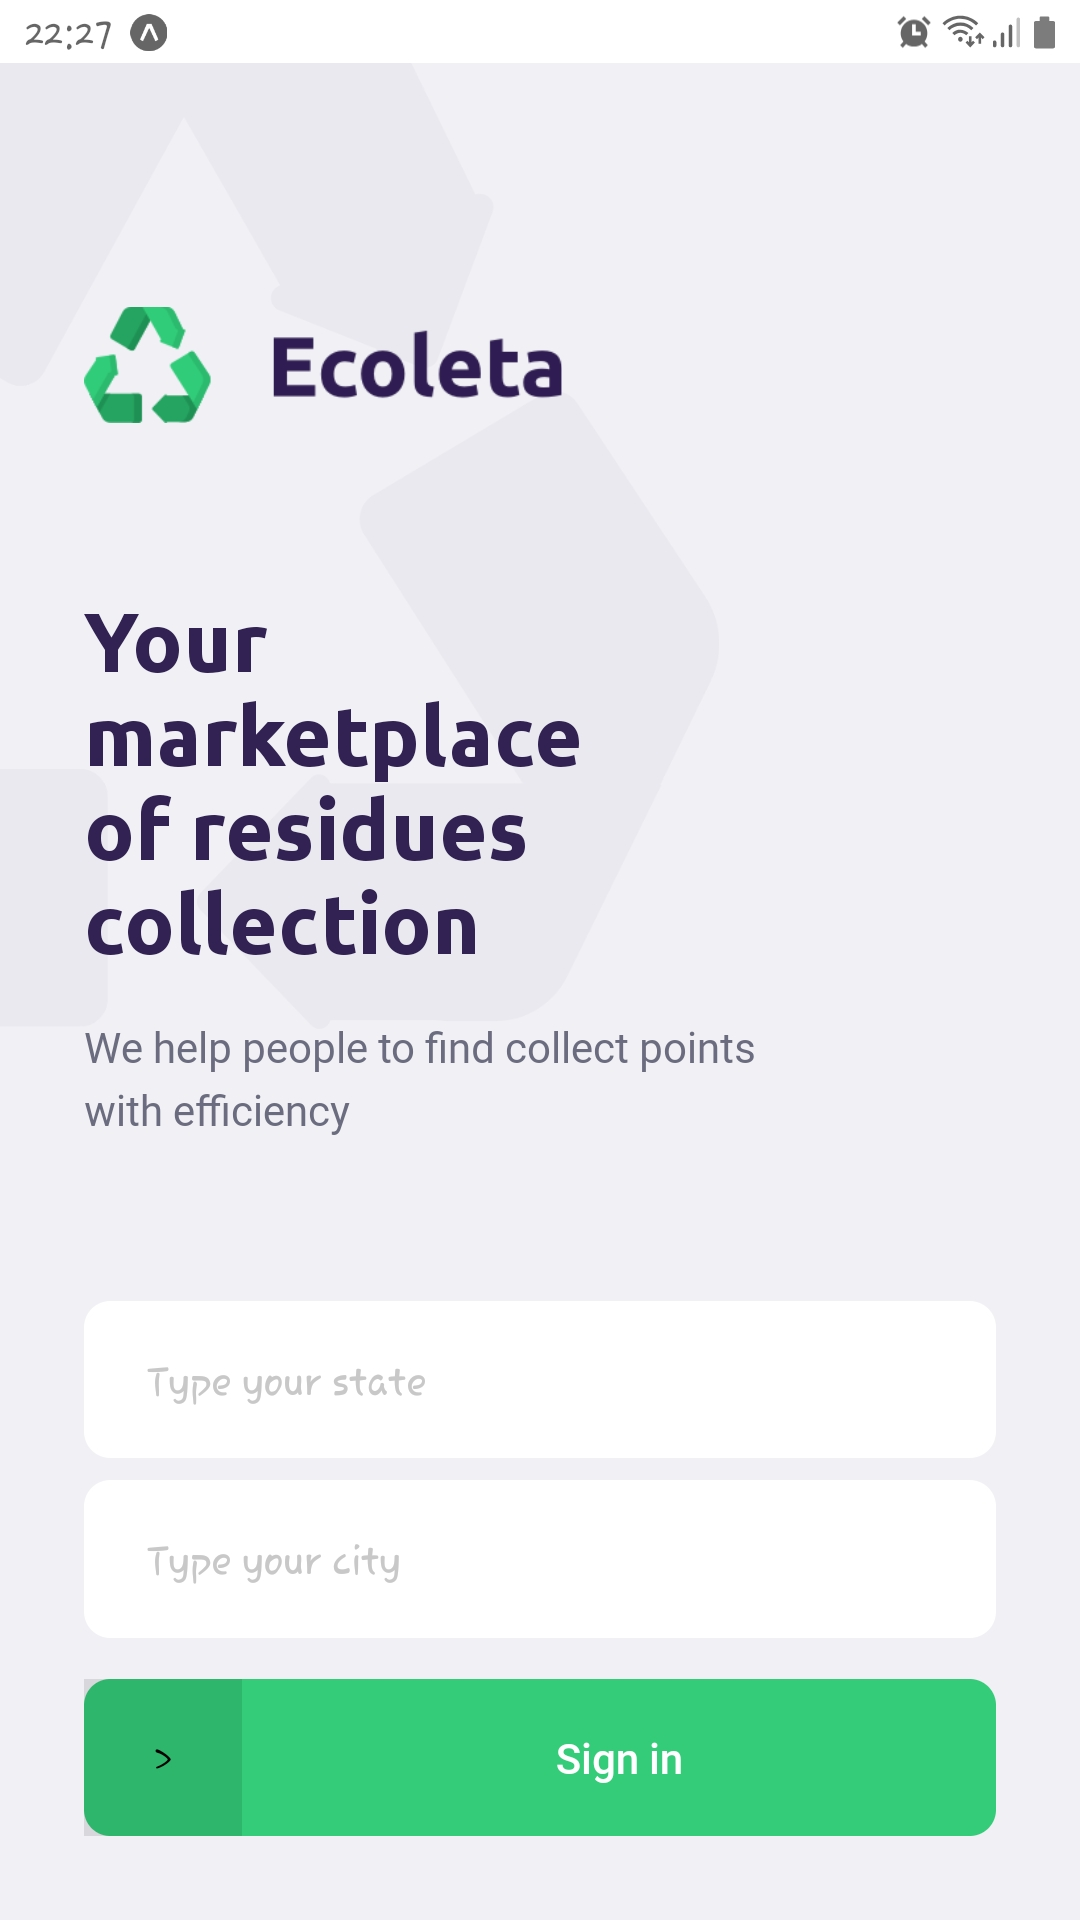
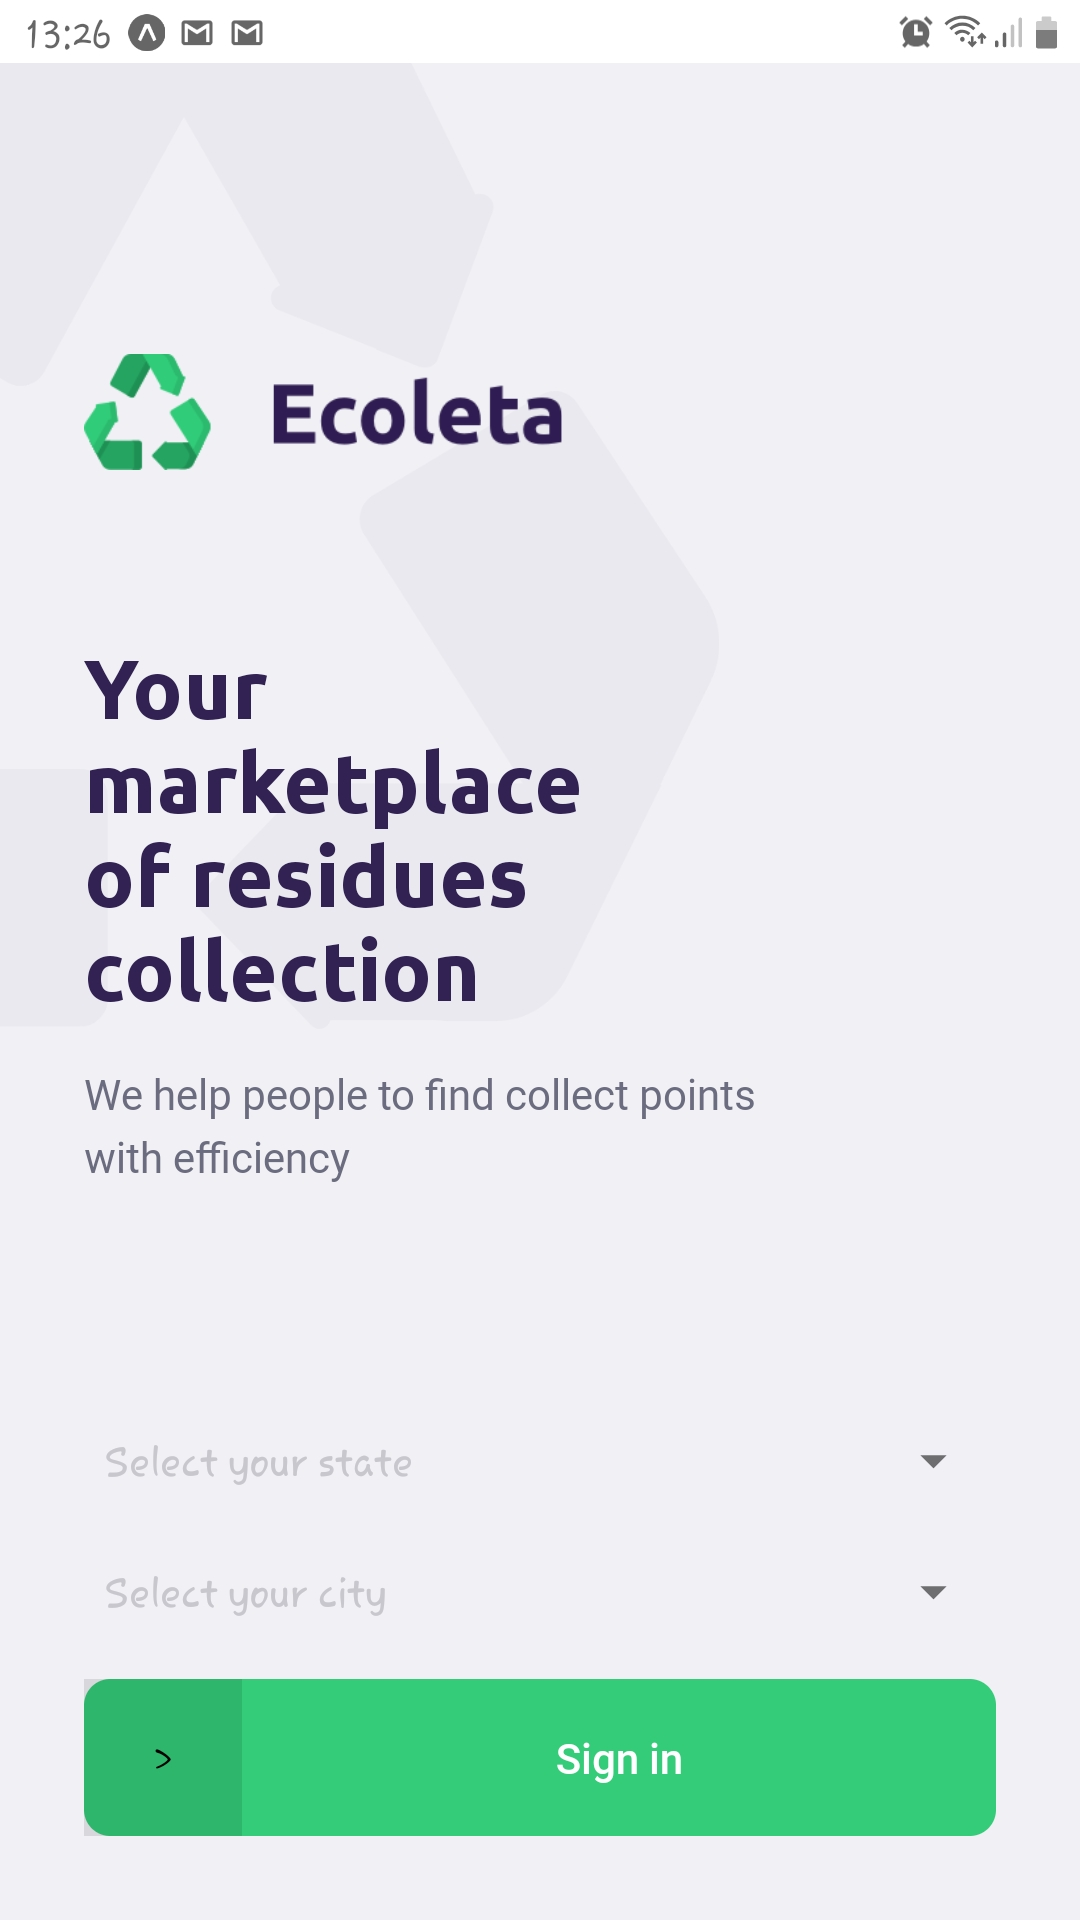
adding native selector for state (uf) and city

diff --git a/mobile/src/pages/Home/index.tsx b/mobile/src/pages/Home/index.tsx
@@ -1,24 +1,48 @@
-import React, { useState } from 'react';
+import React, { useState, useEffect } from 'react';
 import { Image, View, StyleSheet, Text, ImageBackground, KeyboardAvoidingView, Platform } from 'react-native';
 import { RectButton, TextInput } from 'react-native-gesture-handler';
 import { AppLoading } from 'expo';
 import { useNavigation } from '@react-navigation/native';
 import { Roboto_400Regular, Roboto_500Medium } from '@expo-google-fonts/roboto';
 import { Ubuntu_700Bold, useFonts } from '@expo-google-fonts/ubuntu';
+import RNPickerSelect from 'react-native-picker-select';
+import axios from 'axios';
 import styles from './styles';
 
 export default function Home() {
 
-  const [uf, setUf] = useState('');
-  const [city, setCity] = useState('');
+  const [selectedUf, setSelectedUf] = useState('');
+  const [selectedCity, setSelectedCity] = useState('');
+  const [ufs, setUfs] = useState<string[]>([]);
+  const [cities, setCities] = useState<string[]>([]);
 
   const navigation = useNavigation();
 
   function handleNavigation() {
-    if (!uf || !city) return;
+    if (!selectedUf || !selectedCity) return;
 
-    navigation.navigate('Points', { uf, city });
+    navigation.navigate('Points', { uf: selectedUf, city: selectedCity });
   }
+
+  async function fetchUfs() {
+    const res = await axios.get<IBGEUFResponse[]>('https://servicodados.ibge.gov.br/api/v1/localidades/estados');
+
+    setUfs(res.data.map(state => state.sigla))
+  }
+
+  async function fetchCities() {
+    const res = await axios.get<IBGECityResponse[]>(`https://servicodados.ibge.gov.br/api/v1/localidades/estados/${selectedUf}/municipios`);
+
+    setCities(res.data.map(state => state.nome))
+  }
+
+  useEffect(() => {
+    fetchUfs();
+  }, []);
+
+  useEffect(() => {
+    fetchCities();
+  }, [selectedUf]);
 
   const [fontsLoaded] = useFonts({
     Roboto_400Regular,
@@ -45,20 +69,32 @@ export default function Home() {
         
         <View style={styles.footer}>
 
-          <TextInput
-            style={styles.input}
-            placeholder="Type your state"
-            onChangeText={setUf}
-            maxLength={2}
-            autoCapitalize="characters"
-            autoCorrect={false}
+          <RNPickerSelect 
+            placeholder={{
+              label: 'Select your state',
+              value: ''
+            }}
+            style={{ inputAndroid: styles.picker, inputIOS: styles.picker }}
+            onValueChange={value => setSelectedUf(value)}
+            items={ufs.map(uf => ({
+              key: uf,
+              label: uf, 
+              value: uf,
+            }))}
           />
 
-          <TextInput
-            style={styles.input}
-            placeholder="Type your city"
-            onChangeText={setCity}
-            autoCorrect={false}
+          <RNPickerSelect 
+            placeholder={{
+              label: 'Select your city',
+              value: '',
+            }}
+            style={{ inputAndroid: styles.picker, inputIOS: styles.picker }}
+            onValueChange={value => setSelectedCity(value)}
+            items={cities.map(city => ({
+              key: city,
+              label: city, 
+              value: city,
+            }))}
           />
 
           <RectButton style={styles.button} onPress={handleNavigation}>

diff --git a/mobile/src/types/global.d.ts b/mobile/src/types/global.d.ts
@@ -30,3 +30,17 @@ declare interface PointsParams {
   uf: string;
   city: string;
 }
+
+declare interface UF {
+  id: number;
+  initials: string;
+  name: string;
+}
+
+declare interface IBGEUFResponse {
+  sigla: string;
+}
+
+declare interface IBGECityResponse {
+  nome: string;
+}

diff --git a/mobile/src/pages/Home/styles.ts b/mobile/src/pages/Home/styles.ts
@@ -20,6 +20,10 @@ export default StyleSheet.create({
     marginTop: 64,
   },
 
+  picker: {
+    color: '#6C6C80',
+  },
+
   description: {
     color: '#6C6C80',
     fontSize: 16,
